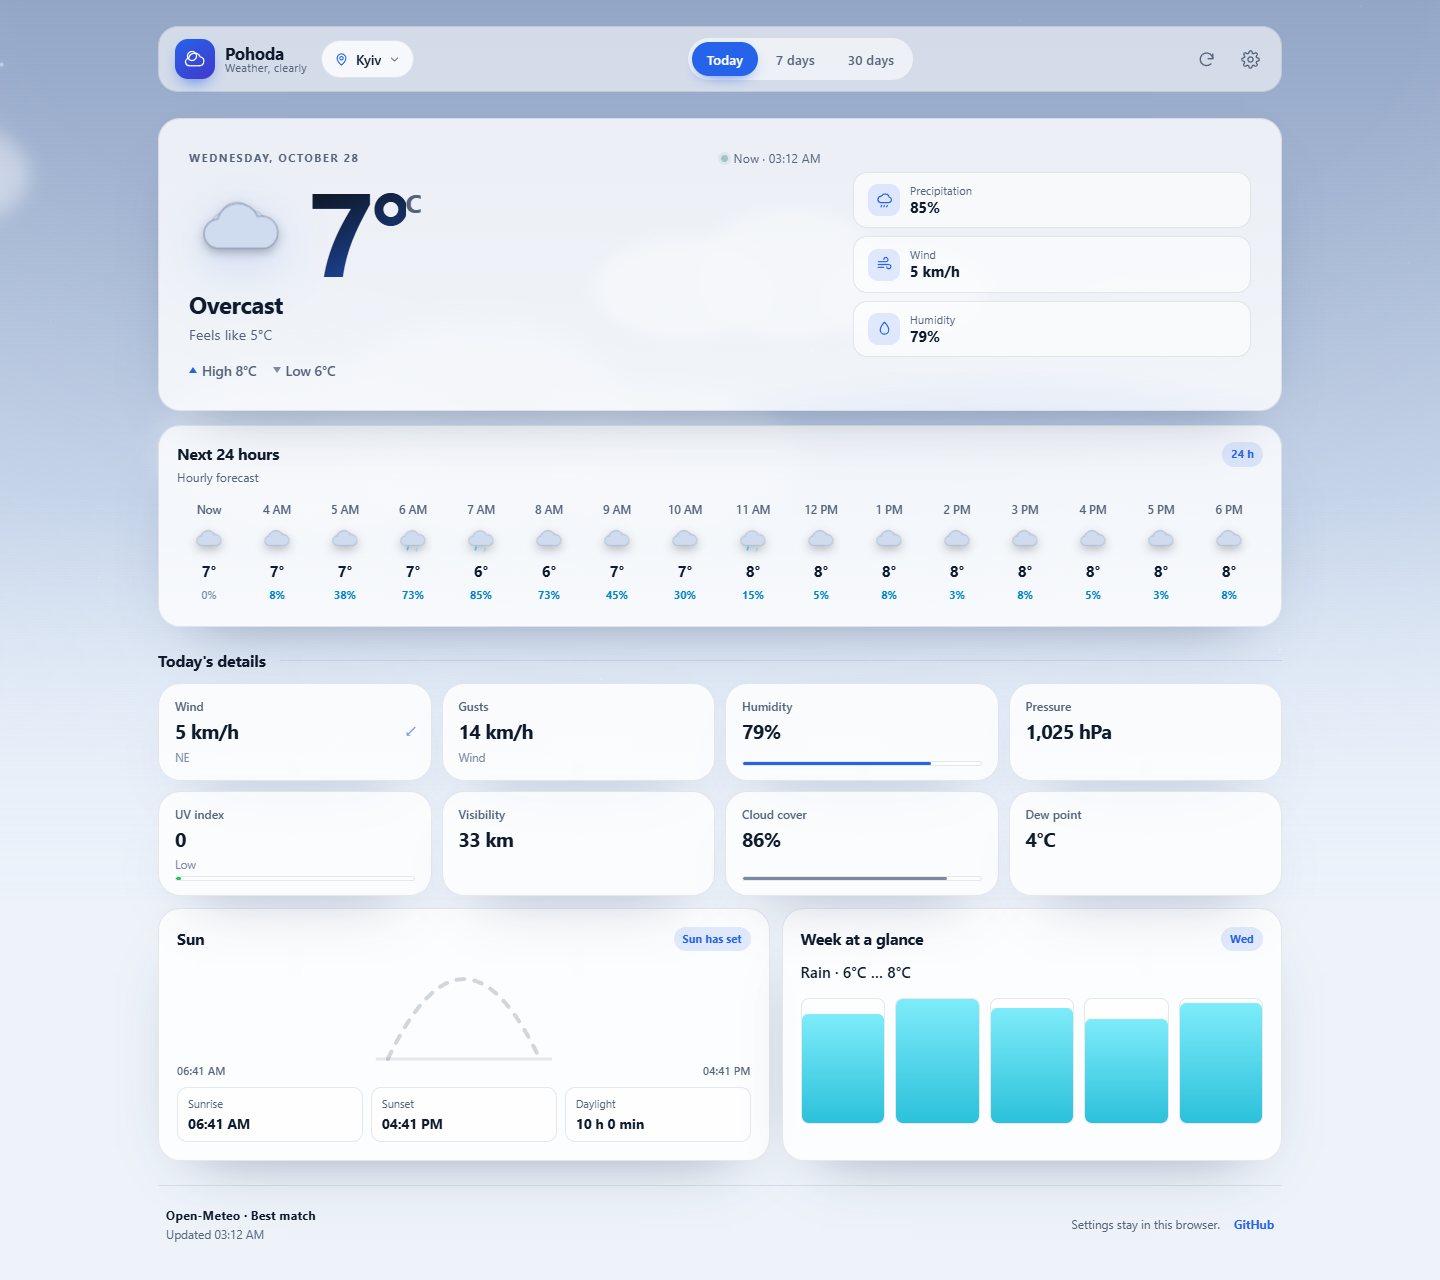
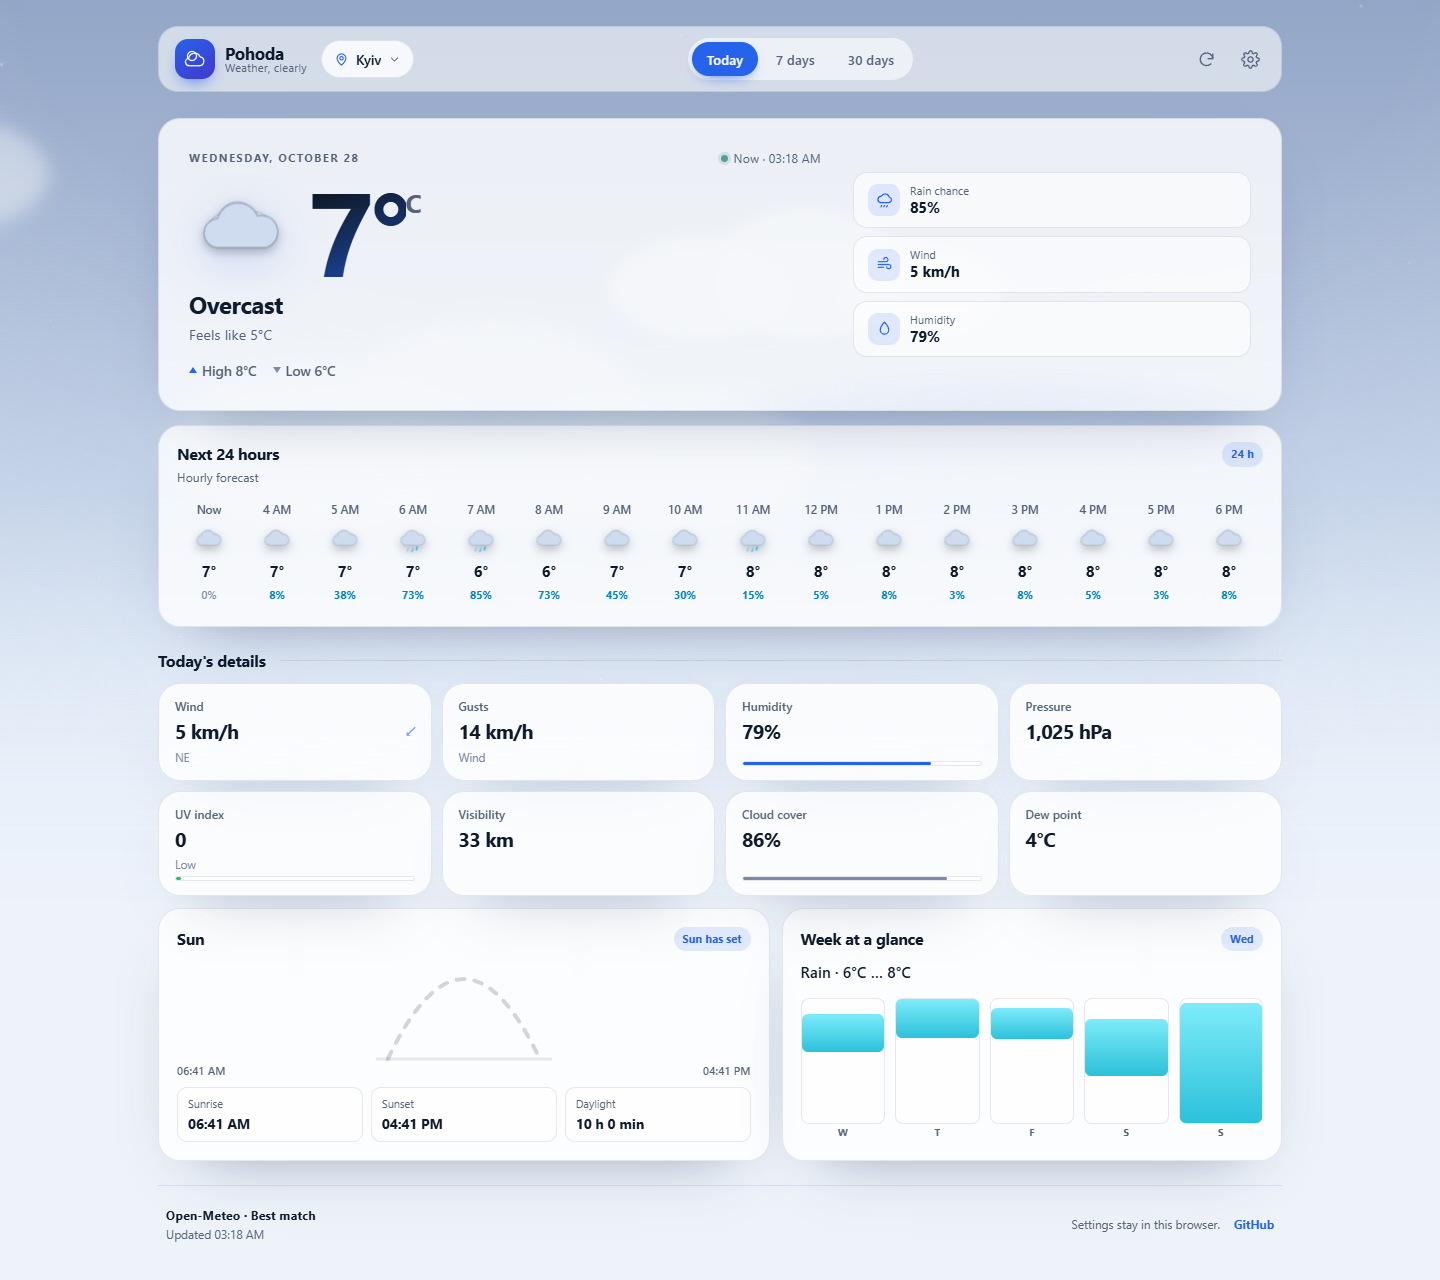
Fix hero precipitation label, show weekday labels under insight bars

Changed region(s): [[0.5312, 0.7812, 0.8125, 0.9062], [0.0, 0.125, 0.0312, 0.1562]]

diff --git a/components/views/TodayView.tsx b/components/views/TodayView.tsx
@@ -123,7 +123,7 @@ export function TodayView({ snapshot }: { snapshot: WeatherSnapshot }) {
               </svg>
             </span>
             <span>
-              <small>{t("metric.precipitation")}</small>
+              <small>{t("metric.precipChance")}</small>
               <strong>{formatPercent(rainChance, locale)}</strong>
             </span>
           </div>
@@ -266,14 +266,20 @@ export function TodayView({ snapshot }: { snapshot: WeatherSnapshot }) {
               const low = Math.min(...window.map((item) => item.min));
               const high = Math.max(...window.map((item) => item.max));
               const span = Math.max(1, high - low);
-              const height = ((day.max - low) / span) * 100;
+              const bottom = ((day.min - low) / span) * 100;
+              const height = ((day.max - day.min) / span) * 100;
               return (
                 <span
                   key={day.date}
                   className="insight-bar"
                   data-tone={temperatureTone((day.min + day.max) / 2)}
                 >
-                  <i style={{ height: `${Math.max(12, Math.min(100, height))}%` }} />
+                  <i
+                    style={{
+                      bottom: `${Math.max(0, Math.min(100, bottom))}%`,
+                      height: `${Math.max(8, Math.min(100, height))}%`,
+                    }}
+                  />
                   <small>{formatWeekday(day.date, locale, "narrow")}</small>
                 </span>
               );

diff --git a/lib/i18n/messages/ru.ts b/lib/i18n/messages/ru.ts
@@ -34,6 +34,7 @@ export const ru = {
   "metric.clouds": "Облачность",
   "metric.dewPoint": "Точка росы",
   "metric.precipitation": "Осадки",
+  "metric.precipChance": "Вероятность дождя",
   "metric.direction": "Направление",
 
   "uv.low": "Низкий",

diff --git a/lib/i18n/messages/uk.ts b/lib/i18n/messages/uk.ts
@@ -34,6 +34,7 @@ export const uk = {
   "metric.clouds": "Хмарність",
   "metric.dewPoint": "Точка роси",
   "metric.precipitation": "Опади",
+  "metric.precipChance": "Ймовірність дощу",
   "metric.direction": "Напрямок",
 
   "uv.low": "Низький",

diff --git a/lib/i18n/messages/es.ts b/lib/i18n/messages/es.ts
@@ -34,6 +34,7 @@ export const es = {
   "metric.clouds": "Nubosidad",
   "metric.dewPoint": "Punto de rocío",
   "metric.precipitation": "Precipitación",
+  "metric.precipChance": "Probabilidad de lluvia",
   "metric.direction": "Dirección",
 
   "uv.low": "Bajo",

diff --git a/lib/i18n/messages/de.ts b/lib/i18n/messages/de.ts
@@ -34,6 +34,7 @@ export const de = {
   "metric.clouds": "Bewölkung",
   "metric.dewPoint": "Taupunkt",
   "metric.precipitation": "Niederschlag",
+  "metric.precipChance": "Regenchance",
   "metric.direction": "Richtung",
 
   "uv.low": "Niedrig",

diff --git a/lib/i18n/messages/en.ts b/lib/i18n/messages/en.ts
@@ -32,6 +32,7 @@ export const en = {
   "metric.clouds": "Cloud cover",
   "metric.dewPoint": "Dew point",
   "metric.precipitation": "Precipitation",
+  "metric.precipChance": "Rain chance",
   "metric.direction": "Direction",
 
   "uv.low": "Low",

diff --git a/lib/i18n/messages/pl.ts b/lib/i18n/messages/pl.ts
@@ -34,6 +34,7 @@ export const pl = {
   "metric.clouds": "Zachmurzenie",
   "metric.dewPoint": "Punkt rosy",
   "metric.precipitation": "Opady",
+  "metric.precipChance": "Szansa na deszcz",
   "metric.direction": "Kierunek",
 
   "uv.low": "Niski",

diff --git a/app/globals.css b/app/globals.css
@@ -1269,7 +1269,6 @@ svg {
   border-radius: 8px;
   background: var(--surface-2);
   border: 1px solid var(--border);
-  overflow: hidden;
 }
 
 .insight-bar i {
